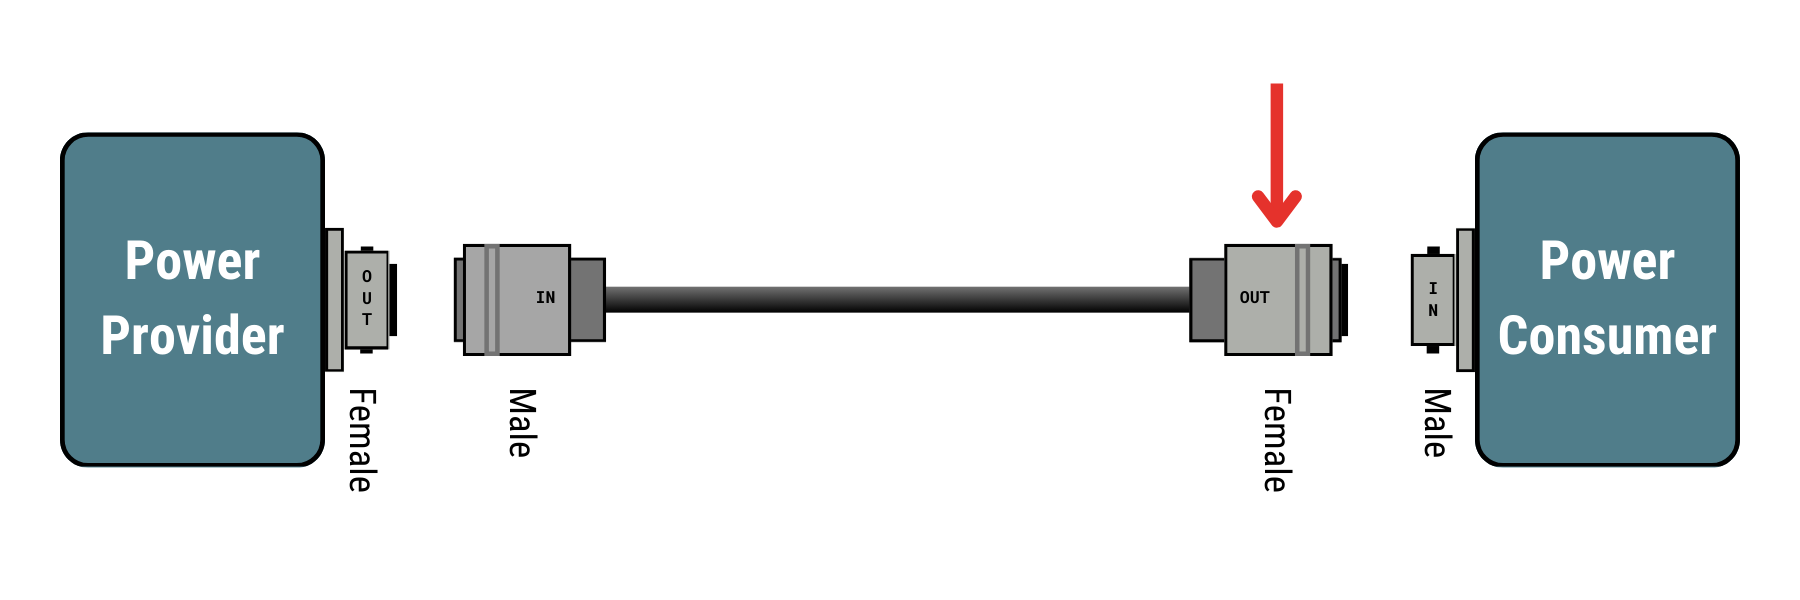
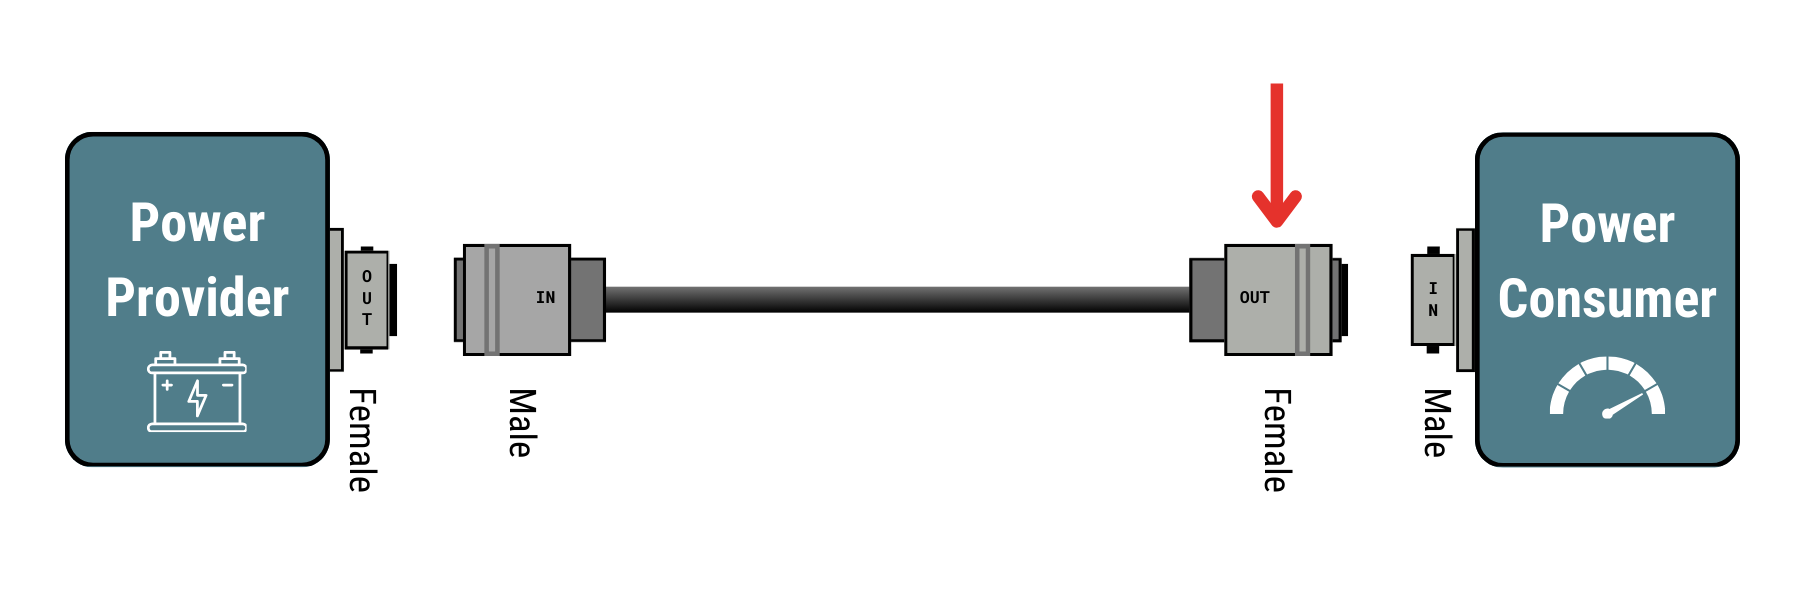
Updated Connector Graphics to use standard nomenclature and added separation lines between connectors

Changed region(s): [[0.0311, 0.21, 0.1867, 0.78], [0.8089, 0.33, 0.9644, 0.69]]

diff --git a/docs/FieldVolt/fieldvolt_standard.md b/docs/FieldVolt/fieldvolt_standard.md
@@ -107,6 +107,7 @@ shell size 12. Common connectors and the pinout are listed below.
   </tr>
 </table>
 
+<hr>
 <b>Leeman Geo P/N:</b> 1-0001497  
 <b>Amphenol P/N:</b> PT06E-12-4S(SR)  
 <b>Description:</b> Wire connector that connects to a FieldVolt ready instrument power input.  
@@ -114,6 +115,7 @@ shell size 12. Common connectors and the pinout are listed below.
 ![PT06E-12-4S(SR)](PT06E-12-4S(SR).png)
 </center>
 
+<hr>
 <b>Leeman Geo P/N:</b> 1-0001496  
 <b>Amphenol P/N:</b> PT06E-12-4P(SR)  
 <b>Description:</b> Wire connector that connects to a FieldVolt power source power output.  
@@ -121,6 +123,7 @@ shell size 12. Common connectors and the pinout are listed below.
 ![PT06E-12-4P(SR)](PT06E-12-4P(SR).png)
 </center>
 
+<hr>
 <b>Leeman Geo P/N:</b> 1-0001495  
 <b>Amphenol P/N:</b> PT02A-12-4S  
 <b>Description:</b> Panel mounted connector that would be used as a FieldVolt power source power output.  
@@ -128,6 +131,7 @@ shell size 12. Common connectors and the pinout are listed below.
 ![PT02A-12-4S](PT02A-12-4S.png)
 </center>
 
+<hr>
 <b>Leeman Geo P/N:</b> 1-0001510  
 <b>Amphenol P/N:</b> PT02A-12-4P  
 <b>Description:</b> Panel mounted connector that would be used as a FieldVolt ready instrument power input.  
@@ -135,11 +139,12 @@ shell size 12. Common connectors and the pinout are listed below.
 ![PT02A-12-4P](PT02A-12-4P.png)
 </center>
 
+<hr>
 <b>Leeman Geo P/N:</b> 1-0001504  
 <b>Amphenol P/N:</b> PT01E12-4S(SR)  
 <b>Description:</b> Panel mounted connector that would be used as a FieldVolt ready instrument power input.  
 <center>
-![PT01E12-4S(SR)](PT01E12-4S(SR).png)
+![PT01E12-4S-SR](PT01E12-4S-SR.png)
 </center>
 
 ## Charging Connectors
@@ -168,6 +173,7 @@ to protect both systems.
   </tr>
 </table>
 
+<hr>
 <b>Leeman Geo P/N:</b> 1-0000963  
 <b>Amphenol P/N:</b> PT06E-12-3S(SR)  
 <b>Description:</b> Wire connector for charging source such as a solar panel, AC adapter, etc.  
@@ -175,6 +181,7 @@ to protect both systems.
 ![PT06E-12-3S(SR)](PT06E-12-3S(SR).png)
 </center>
 
+<hr>
 <b>Leeman Geo P/N:</b> 1-0001592  
 <b>Amphenol P/N:</b> PT01E12-3P-SR  
 <b>Description:</b> Wire connector for charging receiver such as solar charge controller.  
@@ -182,6 +189,7 @@ to protect both systems.
 ![PT01E12-3P-SR](PT01E12-3P-SR.png)
 </center>
 
+<hr>
 <b>Leeman Geo P/N:</b> 1-0001494  
 <b>Amphenol P/N:</b> PT02A-12-3P  
 <b>Description:</b> Panel mounted connector to receive charging source.  
